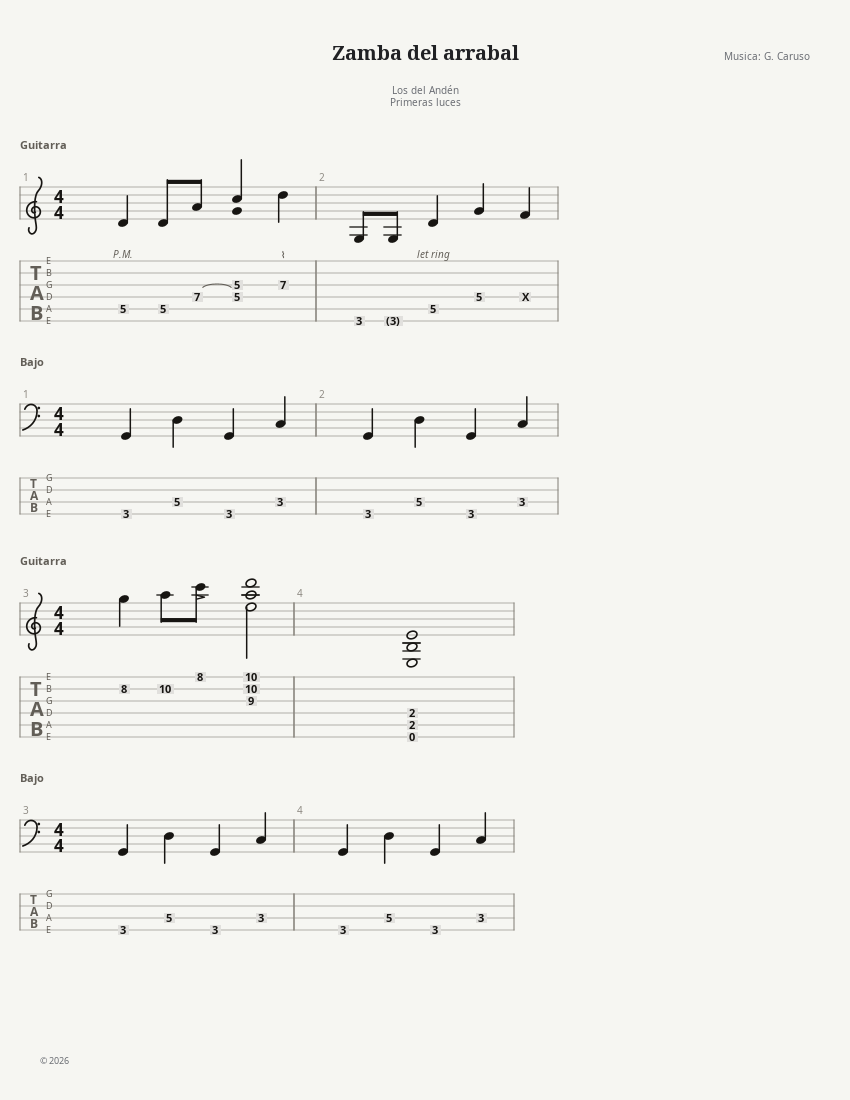
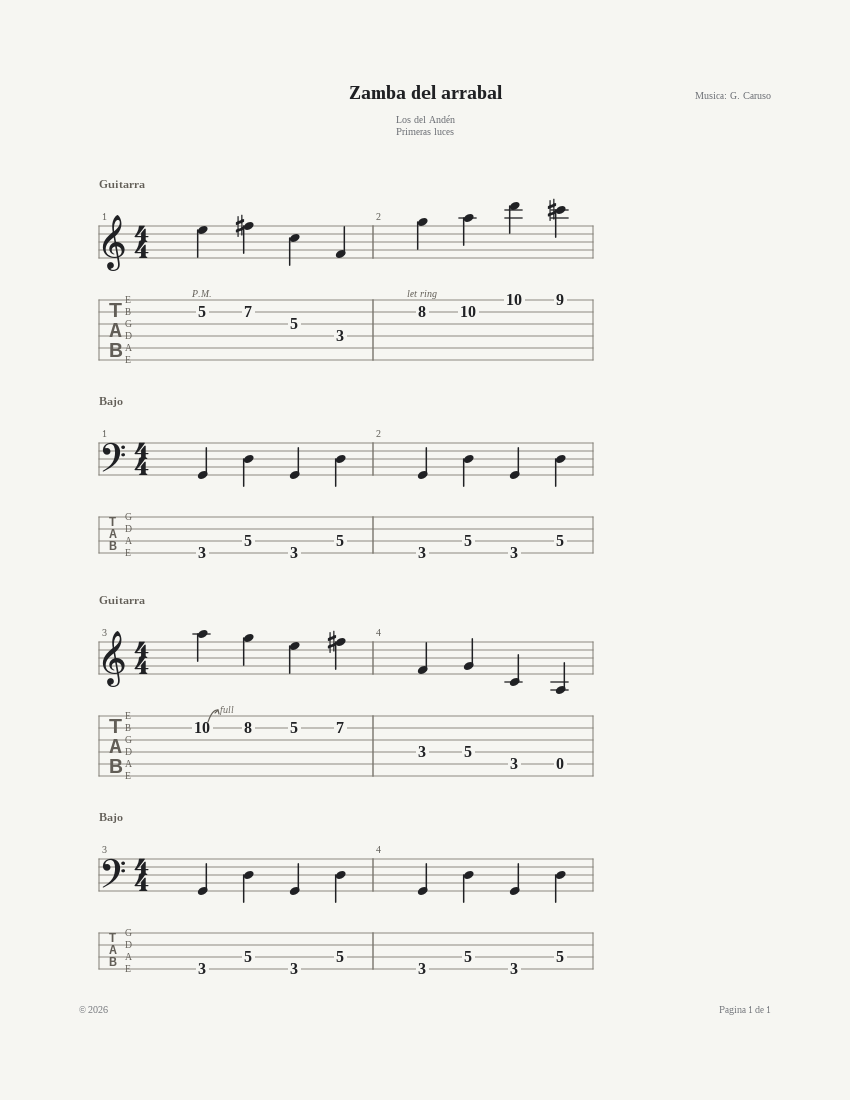
docs(readme): la disposición y los íconos siguen a Guitar Pro 5, con sección de accesibilidad y capturas nuevas (#131)
* docs(readme): la disposicion de barras es de Guitar Pro 5 y suma la seccion de Accesibilidad

La etapa visual reemplazo la estetica propia por la disposicion, la barra de
efectos y los pictogramas de Tabler y Bravura de Guitar Pro 5, y sumo teclado
completo, lector de pantalla y contraste WCAG AA. El README todavia decia
'estetica propia, oscura y plana' y no mencionaba nada de eso.

Claude-Session: https://claude.ai/code/session_01MgGDWYuyaroMrgLB5derfq

* docs(capturas): las cuatro capturas del README muestran las barras y los iconos de Guitar Pro 5

Las capturas se regeneraron con el mismo metodo del PR #42 -MainFrame real con
setVisible(true) e impreso sobre un BufferedImage, sin Robot-, sobre la misma
partitura de ejemplo (Zamba del arrabal, dos pistas). Ahora se ve la barra de
efectos debajo de la partitura, los iconos de Tabler y Bravura, y el contraste
de la mesa de mezcla que corrigio la etapa visual.

Claude-Session: https://claude.ai/code/session_01MgGDWYuyaroMrgLB5derfq

* docs(capturas): las capturas se regeneran con el tema FlatLaf real instalado

AuditSupport.newFrame sin ThemeSwitch deja el MainFrame en el Metal por
defecto: las barras de arriba salian apagadas y los combos y spinners no
tenian el aspecto FlatLaf de la app real. Ahora el script descartable llama
Theme.install() antes de construir la ventana, igual que App.main(), y de paso
quedan al dia con el merge de main (fila de dinamicas y SF en la barra, colores
de barra fijados desde la paleta).
[…]

diff --git a/README.md b/README.md
@@ -5,8 +5,10 @@ Escribís la música, la ves como en un cancionero publicado y la escuchás sona
 
 ![La ventana de tabpro](docs/capturas/tabpro.png)
 
-Está inspirado en Guitar Pro 5.2, del que toma la forma de la pantalla y los
-atajos de teclado, con una estética propia, oscura y plana.
+Está inspirado en Guitar Pro 5.2, del que toma la disposición de las barras
+—con la de efectos pegada debajo de la partitura, como el original— y los
+atajos de teclado. Tema oscuro, con los pictogramas de Tabler Icons y los
+símbolos musicales de la fuente Bravura.
 
 ## Qué hace
 
@@ -106,6 +108,22 @@ el **asistente de percusión** y los asistentes del menú Herramientas: let ring
 palm mute y dinámica por cuerda sobre un rango de compases, acomodar los compases,
 completar con silencios, digitación automática, transportar y revisar la duración
 de los compases.
+
+## Accesibilidad
+
+**Todo se maneja sin mouse.** Los menús y los formularios se navegan por
+mnemónico (`Alt` + la letra subrayada); las perillas de la mesa de mezcla, el
+diapasón, el teclado, la grilla de la vista global, los marcadores, el
+asistente de percusión, los bends y el afinador se operan por teclado y
+muestran el foco. Desde la partitura, `Ctrl+F6` le cede el foco al resto de la
+ventana.
+
+**Todo control tiene nombre y descripción accesibles**, además de su tooltip,
+para que un lector de pantalla lo anuncie aunque no lleve texto.
+
+**Las dos paletas, clara y oscura, cumplen el contraste WCAG AA.**
+`Preferencias > Accesibilidad` suma tamaño de letra ajustable, alto contraste
+y la opción de apagar las animaciones.
 
 ## Archivos
 
